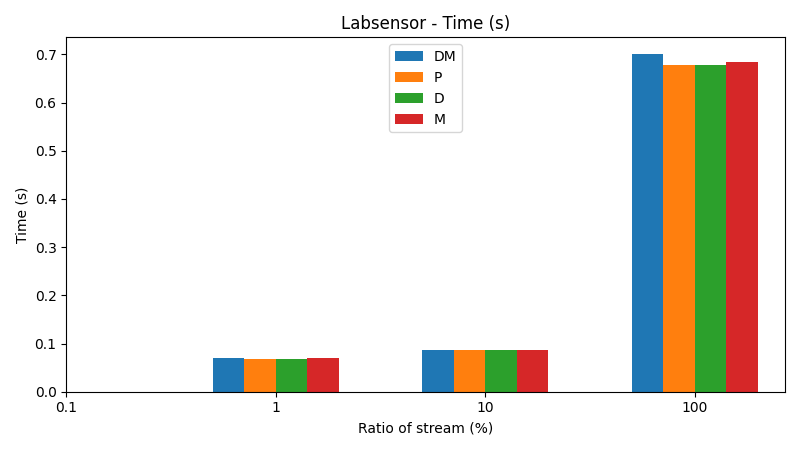
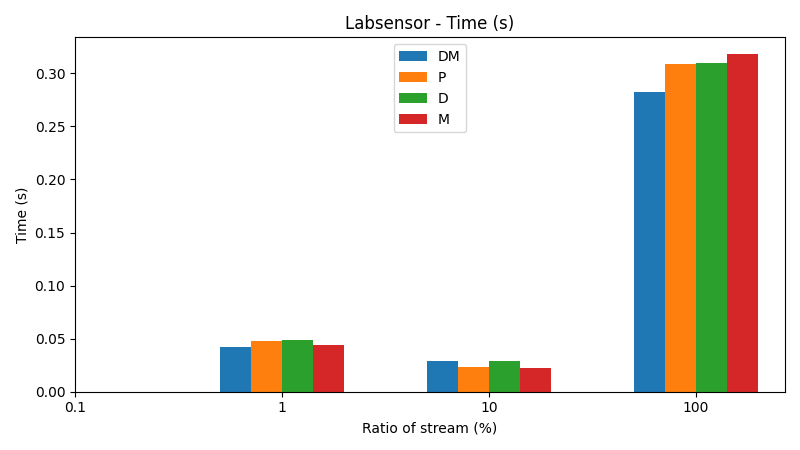
Update metric reading to use 'opt_time' instead of 'tot_time' for improved accuracy

diff --git a/continuous/iif_exp/plot_helper.py b/continuous/iif_exp/plot_helper.py
@@ -32,8 +32,8 @@ def read_metrics_from_file(path: str, reducer: Callable = None) -> Tuple[float, 
         reducer = pd.Series.mean
     if 'mape' in df.columns:
         mre = reducer(df['mape']) * 100.0
-    if 'tot_time' in df.columns:
-        t = reducer(df['tot_time'])
+    if 'opt_time' in df.columns:
+        t = reducer(df['opt_time'])
     return mre, t
 
 